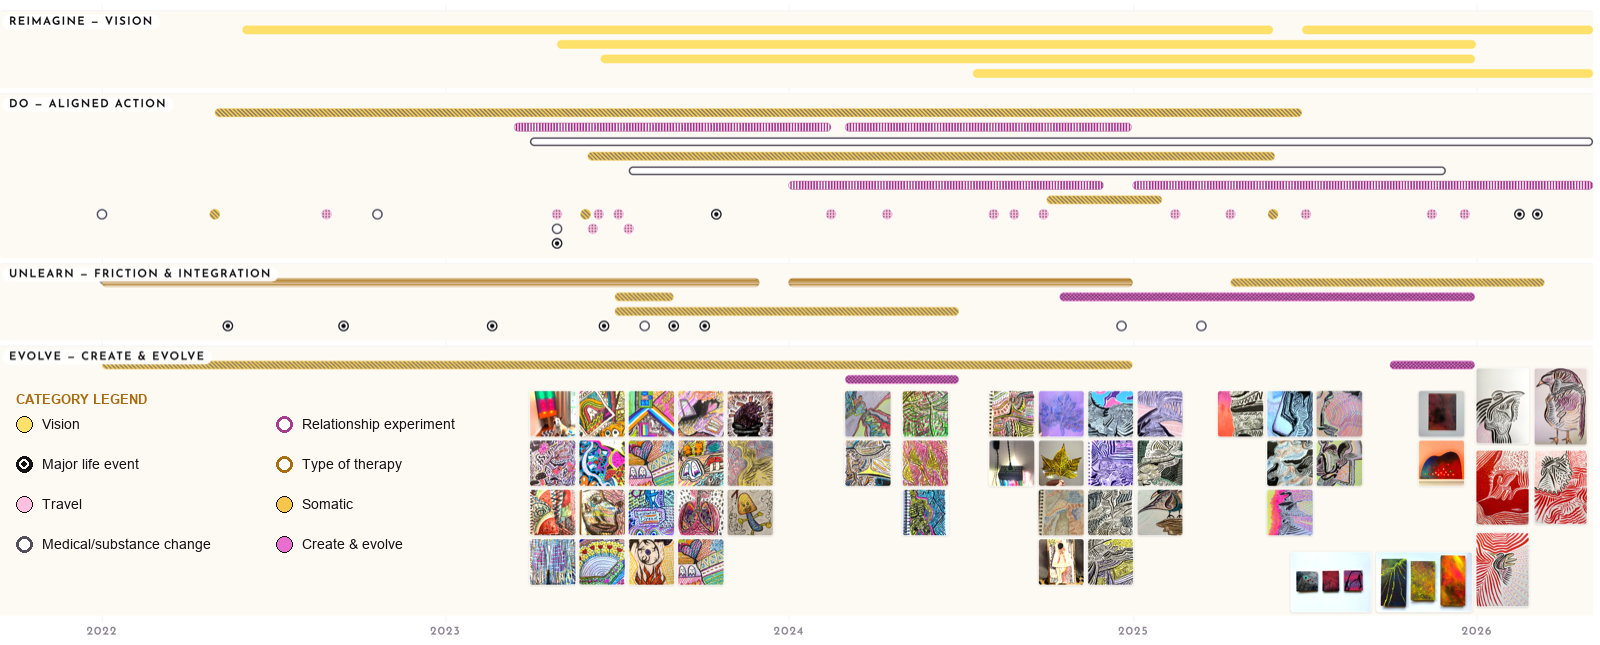
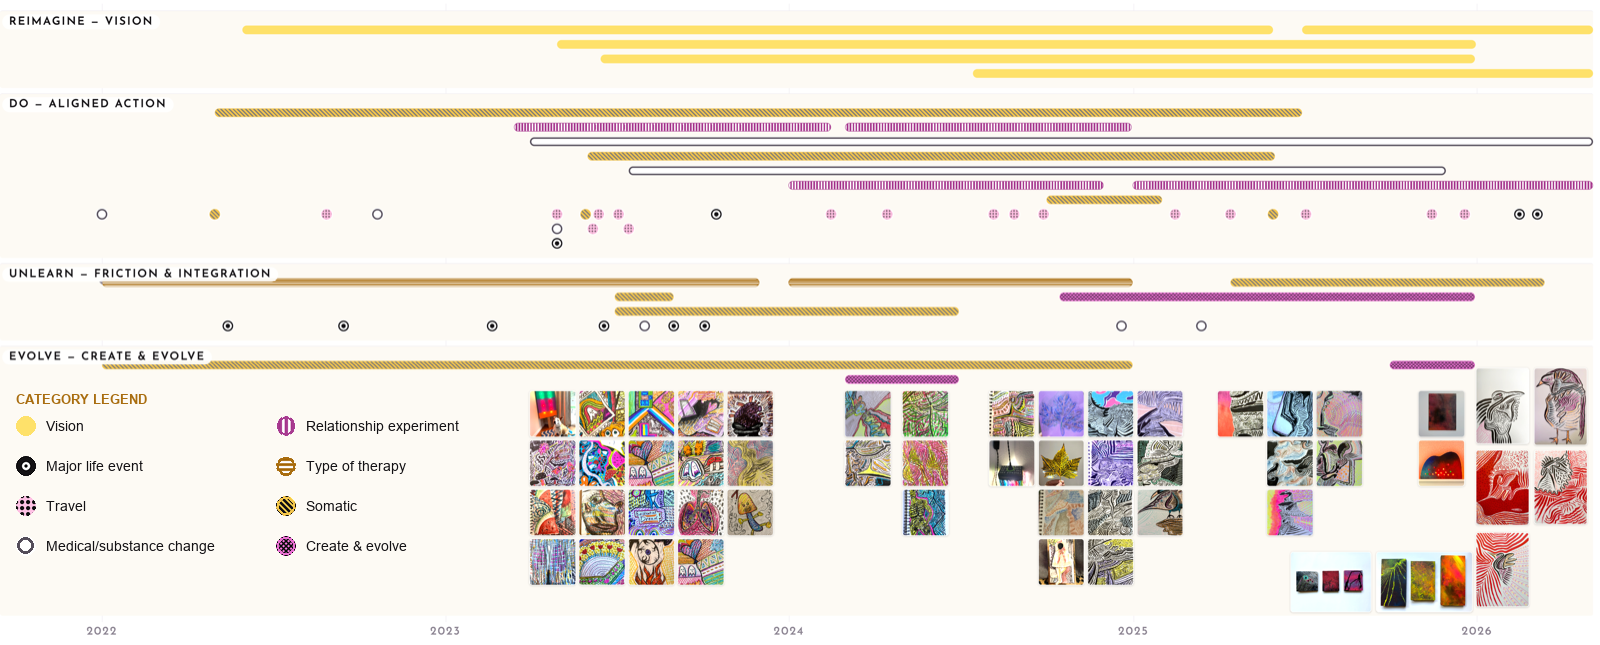
Fix legend swatch textures to match the poster page's design
The baked-in legend on the full-res timeline image used flat solid
circles; redraw it with the actual dot/stripe/hatch/crosshatch textures
from the poster page's own legend so categories read distinctly. Also
switch Origin Story's always-visible legend to the same swatch styles
so both pages match.

diff --git a/src/pages/OriginStoryPage.tsx b/src/pages/OriginStoryPage.tsx
@@ -1,3 +1,4 @@
+import type { CSSProperties } from 'react'
 import { Link } from 'react-router-dom'
 import founderPhoto from '../assets/origin-story/founder-photo-origin.jpg'
 import { MarketingHeader } from '../components/MarketingHeader'
@@ -23,6 +24,34 @@ const CATEGORY_COLORS: Record<string, string> = {
   'Type of therapy': '#3D7EBF',
   Somatic: '#C1663D',
   'Create & evolve': '#6B9B3F',
+}
+
+// Matches the swatch styling on the poster page's category legend exactly, so both pages read the same.
+const CATEGORY_SWATCHES: Record<keyof typeof CATEGORY_COLORS, CSSProperties> = {
+  Vision: { background: '#FEE16A' },
+  'Major life event': { background: 'radial-gradient(circle, #131114 0 28%, #FFFFFF 30% 52%, #131114 55%)' },
+  Travel: {
+    border: '2px solid #FFC0E2',
+    background: 'radial-gradient(circle, rgba(19,17,20,.55) 1.6px, transparent 2.1px) 0 0 / 6px 6px, #FFC0E2',
+  },
+  'Medical/substance change': { background: '#FFFFFF', border: '3px solid #544D5A' },
+  'Relationship experiment': {
+    border: '2px solid #A83B90',
+    background: 'repeating-linear-gradient(90deg, rgba(255,255,255,.85) 0 2.5px, #A83B90 2.5px 6px)',
+  },
+  'Type of therapy': {
+    border: '2px solid #A96D0F',
+    background: 'repeating-linear-gradient(0deg, rgba(255,255,255,.85) 0 2px, #A96D0F 2px 5px)',
+  },
+  Somatic: {
+    border: '2px solid #F5C64B',
+    background: 'repeating-linear-gradient(45deg, rgba(19,17,20,.55) 0 2.5px, #F5C64B 2.5px 6px)',
+  },
+  'Create & evolve': {
+    border: '2px solid #E86FD0',
+    background:
+      'repeating-linear-gradient(45deg, rgba(19,17,20,.55) 0 1.5px, transparent 1.5px 5px), repeating-linear-gradient(-45deg, rgba(19,17,20,.55) 0 1.5px, transparent 1.5px 5px), #E86FD0',
+  },
 }
 
 interface LifeEvent {
@@ -232,10 +261,10 @@ export default function OriginStoryPage() {
               Open the image for full resolution and a category legend.
             </span>
           </div>
-          <div className="mt-6 flex flex-col gap-2">
-            {Object.entries(CATEGORY_COLORS).map(([label, color]) => (
-              <div key={label} className="flex items-baseline gap-2">
-                <span className="h-[8px] w-[8px] flex-none translate-y-[1px] rounded-full" style={{ background: color }} />
+          <div className="mt-6 flex flex-col gap-2.5">
+            {Object.keys(CATEGORY_COLORS).map((label) => (
+              <div key={label} className="flex items-baseline gap-2.5">
+                <span className="h-[14px] w-[14px] flex-none translate-y-[2px] rounded-full" style={CATEGORY_SWATCHES[label]} />
                 <span className="text-[13px]" style={{ color: '#131114' }}>
                   {label}
                 </span>
